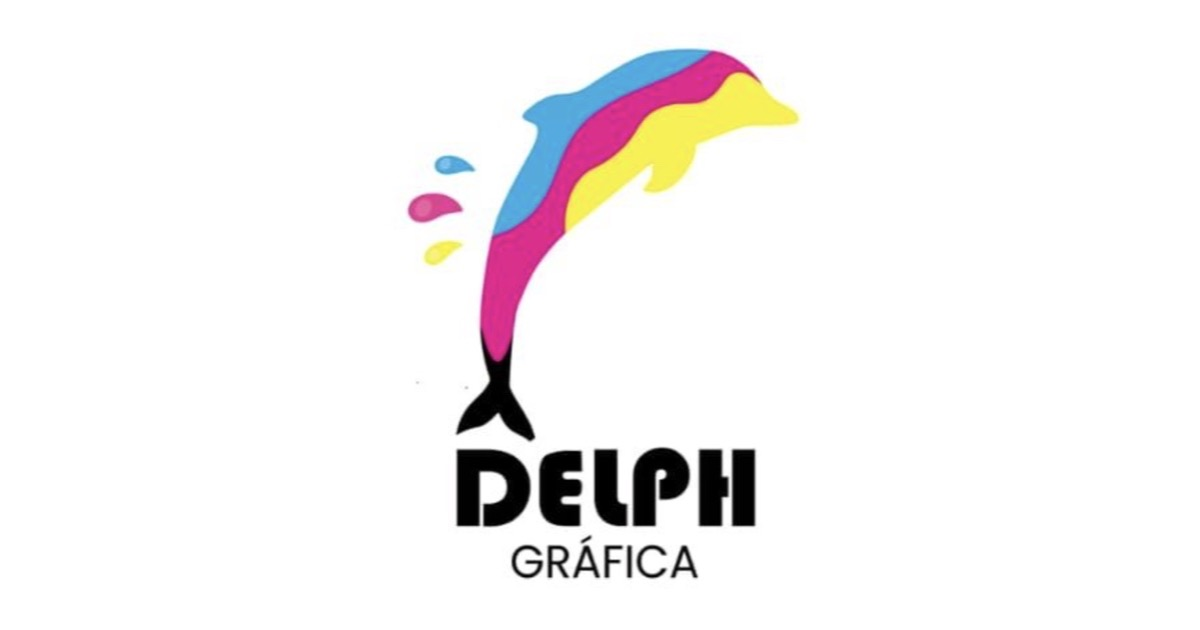
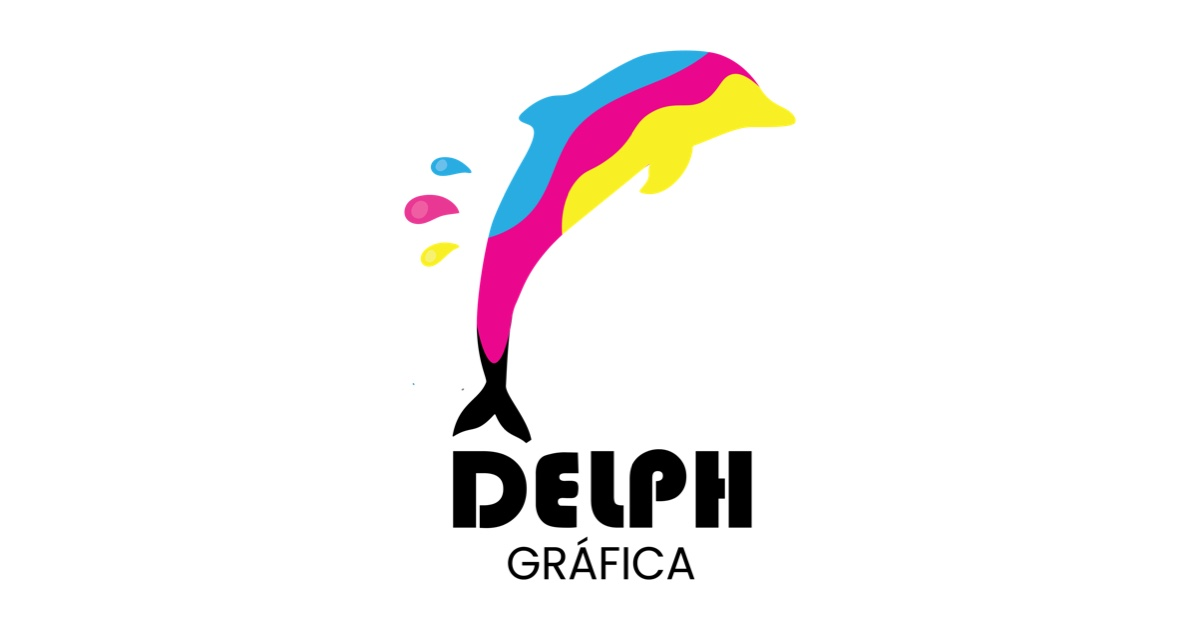
Rediseño v1: hero partido, servicios, portfolio, contacto, footer y modal
Nuevo diseño inspirado en plotterdoc.com: encabezado con navegación, hero
oscuro/claro, cuatro servicios (con "Cotizar esto" que abre WhatsApp con el
servicio), siete bloques de portfolio con banner de Instagram, contacto en
dos columnas, footer y botón flotante de WhatsApp. El modal de "Adjuntar
archivo" usa el <dialog> nativo y devuelve el foco al botón.

Logo nuevo (PNG transparente de 5285x5377): assets regenerados con sips y
paleta con los colores exactos de la marca. El acento se oscurece a #dc078b
y el verde de WhatsApp a #0f7a6d para cumplir AA con texto blanco.

Tailwind ahora solo escanea index.html y js/, así el CSS compilado es
reproducible (antes arrastraba clases viejas de su propio archivo).

Tests: 73 unit/static y 121 E2E en Chromium móvil, Chromium escritorio y
WebKit. Lighthouse móvil: Performance 98, Accesibilidad 98, Buenas prácticas
100, SEO 100.

Changed region(s): [[0.3392, 0.0603, 0.6783, 0.9349]]

diff --git a/assets/styles.css b/assets/styles.css
@@ -1,2 +1,2 @@
 /*! tailwindcss v4.3.3 | MIT License | https://tailwindcss.com */
-@layer properties{@supports (((-webkit-hyphens:none)) and (not (margin-trim:inline))) or ((-moz-orient:inline) and (not (color:rgb(from red r g b)))){*,:before,:after,::backdrop{--tw-space-y-reverse:0;--tw-border-style:solid;--tw-font-weight:initial;--tw-tracking:initial;--tw-blur:initial;--tw-brightness:initial;--tw-contrast:initial;--tw-grayscale:initial;--tw-hue-rotate:initial;--tw-invert:initial;--tw-opacity:initial;--tw-saturate:initial;--tw-sepia:initial;--tw-drop-shadow:initial;--tw-drop-shadow-color:initial;--tw-drop-shadow-alpha:100%;--tw-drop-shadow-size:initial}}}@layer theme{:root,:host{--font-sans:"Inter", ui-sans-serif, system-ui, -apple-system, "Segoe UI", Roboto, sans-serif;--font-mono:ui-monospace, SFMono-Regular, Menlo, Monaco, Consolas, "Liberation Mono", "Courier New", monospace;--color-neutral-500:oklch(55.6% 0 none);--color-neutral-700:oklch(37.1% 0 none);--color-white:#fff;--spacing:.25rem;--container-2xl:42rem;--container-6xl:72rem;--text-sm:.875rem;--text-sm--line-height:calc(1.25 / .875);--text-base:1rem;--text-base--line-height:calc(1.5 / 1);--text-lg:1.125rem;--text-lg--line-height:calc(1.75 / 1.125);--text-3xl:1.875rem;--text-3xl--line-height:calc(2.25 / 1.875);--text-4xl:2.25rem;--text-4xl--line-height:calc(2.5 / 2.25);--font-weight-semibold:600;--font-weight-bold:700;--tracking-tight:-.025em;--radius-lg:.5rem;--default-font-family:var(--font-sans);--default-mono-font-family:var(--font-mono);--color-accent:#c8237b;--color-ink:#111;--color-paper:#fafafa}}@layer base{*,:after,:before,::backdrop{box-sizing:border-box;border:0 solid;margin:0;padding:0}::file-selector-button{box-sizing:border-box;border:0 solid;margin:0;padding:0}html,:host{-webkit-text-size-adjust:100%;tab-size:4;line-height:1.5;font-family:var(--default-font-family,-apple-system, BlinkMacSystemFont, "Segoe UI", Roboto, "Helvetica Neue", "Noto Sans", Arial, sans-serif, "Apple Color Emoji", "Segoe UI Emoji", "Segoe UI Symbol", "Noto Color Emoji");font-feature-settings:var(--default-font-feature-settings,normal);font-variation-settings:var(--default-font-variation-settings,normal);-webkit-tap-highlight-color:transparent}hr{height:0;color:inherit;border-top-width:1px}abbr:where([title]){-webkit-text-decoration:underline dotted;text-decoration:underline dotted}h1,h2,h3,h4,h5,h6{font-size:inherit;font-weight:inherit}a{color:inherit;-webkit-text-decoration:inherit;-webkit-text-decoration:inherit;-webkit-text-decoration:inherit;text-decoration:inherit}b,strong{font-weight:bolder}code,kbd,samp,pre{font-family:var(--default-mono-font-family,ui-monospace, SFMono-Regular, Menlo, Monaco, Consolas, "Liberation Mono", "Courier New", monospace);font-feature-settings:var(--default-mono-font-feature-settings,normal);font-variation-settings:var(--default-mono-font-variation-settings,normal);font-size:1em}small{font-size:80%}sub,sup{vertical-align:baseline;font-size:75%;line-height:0;position:relative}sub{bottom:-.25em}sup{top:-.5em}table{text-indent:0;border-color:inherit;border-collapse:collapse}:-moz-focusring:where(:not(iframe)){outline:auto}progress{vertical-align:baseline}summary{display:list-item}ol,ul,menu{list-style:none}img,svg,video,canvas,audio,iframe,embed,object{vertical-align:middle;display:block}img,video{max-width:100%;height:auto}button,input,select,optgroup,textarea{font:inherit;font-feature-settings:inherit;font-variation-settings:inherit;letter-spacing:inherit;color:inherit;opacity:1;background-color:#0000;border-radius:0}::file-selector-button{font:inherit;font-feature-settings:inherit;font-variation-settings:inherit;letter-spacing:inherit;color:inherit;opacity:1;background-color:#0000;border-radius:0}:where(select:is([multiple],[size])) optgroup{font-weight:bolder}:where(select:is([multiple],[size])) optgroup option{padding-inline-start:20px}::file-selector-button{margin-inline-end:4px}::placeholder{opacity:1}@supports (not ((-webkit-appearance:-apple-pay-button))) or (contain-intrinsic-size:1px){::placeholder{color:currentColor}@supports (color:color-mix(in lab, red, red)){::placeholder{color:color-mix(in oklab, currentcolor 50%, transparent)}}}textarea{resize:vertical}::-webkit-search-decoration{-webkit-appearance:none}::-webkit-date-and-time-value{min-height:1lh;text-align:inherit}::-webkit-datetime-edit{display:inline-flex}::-webkit-datetime-edit-fields-wrapper{padding:0}::-webkit-datetime-edit{padding-block:0}::-webkit-datetime-edit-year-field{padding-block:0}::-webkit-datetime-edit-month-field{padding-block:0}::-webkit-datetime-edit-day-field{padding-block:0}::-webkit-datetime-edit-hour-field{padding-block:0}::-webkit-datetime-edit-minute-field{padding-block:0}::-webkit-datetime-edit-second-field{padding-block:0}::-webkit-datetime-edit-millisecond-field{padding-block:0}::-webkit-datetime-edit-meridiem-field{padding-block:0}::-webkit-calendar-picker-indicator{line-height:1}:-moz-ui-invalid{box-shadow:none}button,input:where([type=button],[type=reset],[type=submit]){appearance:button}::file-selector-button{appearance:button}::-webkit-inner-spin-button{height:auto}::-webkit-outer-spin-button{height:auto}[hidden]:where(:not([hidden=until-found])){display:none!important}html{background-color:var(--color-paper);color:var(--color-ink)}@media (prefers-reduced-motion:no-preference){html{scroll-behavior:smooth}}:focus-visible{outline:3px solid var(--color-accent);outline-offset:3px}}@layer components;@layer utilities{.mx-auto{margin-inline:auto}.mt-1{margin-top:var(--spacing)}.mt-3{margin-top:calc(var(--spacing) * 3)}.mt-8{margin-top:calc(var(--spacing) * 8)}.block{display:block}.flex{display:flex}.inline-flex{display:inline-flex}.h-16{height:calc(var(--spacing) * 16)}.min-h-11{min-height:calc(var(--spacing) * 11)}.w-auto{width:auto}.w-full{width:100%}.max-w-2xl{max-width:var(--container-2xl)}.max-w-6xl{max-width:var(--container-6xl)}.items-center{align-items:center}.justify-center{justify-content:center}:where(.space-y-5>:not(:last-child)){--tw-space-y-reverse:0;margin-block-start:calc(calc(var(--spacing) * 5) * var(--tw-space-y-reverse));margin-block-end:calc(calc(var(--spacing) * 5) * calc(1 - var(--tw-space-y-reverse)))}.rounded-full{border-radius:3.40282e38px}.rounded-lg{border-radius:var(--radius-lg)}.border{border-style:var(--tw-border-style);border-width:1px}.border-2{border-style:var(--tw-border-style);border-width:2px}.border-l-4{border-left-style:var(--tw-border-style);border-left-width:4px}.border-ink{border-color:var(--color-ink)}.border-neutral-500{border-color:var(--color-neutral-500)}.bg-accent{background-color:var(--color-accent)}.bg-paper{background-color:var(--color-paper)}.bg-white{background-color:var(--color-white)}.p-4{padding:calc(var(--spacing) * 4)}.px-4{padding-inline:calc(var(--spacing) * 4)}.px-8{padding-inline:calc(var(--spacing) * 8)}.py-2{padding-block:calc(var(--spacing) * 2)}.py-3{padding-block:calc(var(--spacing) * 3)}.py-4{padding-block:calc(var(--spacing) * 4)}.py-16{padding-block:calc(var(--spacing) * 16)}.pl-3{padding-left:calc(var(--spacing) * 3)}.text-right{text-align:right}.font-sans{font-family:var(--font-sans)}.text-3xl{font-size:var(--text-3xl);line-height:var(--tw-leading,var(--text-3xl--line-height))}.text-base{font-size:var(--text-base);line-height:var(--tw-leading,var(--text-base--line-height))}.text-lg{font-size:var(--text-lg);line-height:var(--tw-leading,var(--text-lg--line-height))}.text-sm{font-size:var(--text-sm);line-height:var(--tw-leading,var(--text-sm--line-height))}.font-bold{--tw-font-weight:var(--font-weight-bold);font-weight:var(--font-weight-bold)}.font-semibold{--tw-font-weight:var(--font-weight-semibold);font-weight:var(--font-weight-semibold)}.tracking-tight{--tw-tracking:var(--tracking-tight);letter-spacing:var(--tracking-tight)}.text-ink{color:var(--color-ink)}.text-neutral-700{color:var(--color-neutral-700)}.text-white{color:var(--color-white)}.underline{text-decoration-line:underline}.antialiased{-webkit-font-smoothing:antialiased;-moz-osx-font-smoothing:grayscale}.mix-blend-multiply{mix-blend-mode:multiply}.empty\:hidden:empty{display:none}@media (hover:hover){.hover\:bg-accent:hover{background-color:var(--color-accent)}.hover\:brightness-90:hover{--tw-brightness:brightness(90%);filter:var(--tw-blur,) var(--tw-brightness,) var(--tw-contrast,) var(--tw-grayscale,) var(--tw-hue-rotate,) var(--tw-invert,) var(--tw-saturate,) var(--tw-sepia,) var(--tw-drop-shadow,)}}.focus\:outline-none:focus{--tw-outline-style:none;outline-style:none}.focus-visible\:ring-accent:focus-visible{--tw-ring-color:var(--color-accent)}.aria-invalid\:border-2[aria-invalid=true]{border-style:var(--tw-border-style);border-width:2px}.aria-invalid\:border-ink[aria-invalid=true]{border-color:var(--color-ink)}@media (min-width:40rem){.sm\:px-6{padding-inline:calc(var(--spacing) * 6)}.sm\:py-24{padding-block:calc(var(--spacing) * 24)}.sm\:text-4xl{font-size:var(--text-4xl);line-height:var(--tw-leading,var(--text-4xl--line-height))}}}@font-face{font-family:Inter;src:url(fonts/inter-latin-var.woff2)format("woff2");font-weight:100 900;font-style:normal;font-display:swap}@property --tw-space-y-reverse{syntax:"*";inherits:false;initial-value:0}@property --tw-border-style{syntax:"*";inherits:false;initial-value:solid}@property --tw-font-weight{syntax:"*";inherits:false}@property --tw-tracking{syntax:"*";inherits:false}@property --tw-blur{syntax:"*";inherits:false}@property --tw-brightness{syntax:"*";inherits:false}@property --tw-contrast{syntax:"*";inherits:false}@property --tw-grayscale{syntax:"*";inherits:false}@property --tw-hue-rotate{syntax:"*";inherits:false}@property --tw-invert{syntax:"*";inherits:false}@property --tw-opacity{syntax:"*";inherits:false}@property --tw-saturate{syntax:"*";inherits:false}@property --tw-sepia{syntax:"*";inherits:false}@property --tw-drop-shadow{syntax:"*";inherits:false}@property --tw-drop-shadow-color{syntax:"*";inherits:false}@property --tw-drop-shadow-alpha{syntax:"<percentage>";inherits:false;initial-value:100%}@property --tw-drop-shadow-size{syntax:"*";inherits:false}
+@layer properties{@supports (((-webkit-hyphens:none)) and (not (margin-trim:inline))) or ((-moz-orient:inline) and (not (color:rgb(from red r g b)))){*,:before,:after,::backdrop{--tw-font-weight:initial}}}@layer theme{:root,:host{--font-sans:"Inter", ui-sans-serif, system-ui, -apple-system, "Segoe UI", Roboto, sans-serif;--font-mono:ui-monospace, SFMono-Regular, Menlo, Monaco, Consolas, "Liberation Mono", "Courier New", monospace;--color-yellow-100:#fdfbc9;--color-cyan-100:#d3eefa;--font-weight-semibold:600;--default-font-family:var(--font-sans);--default-mono-font-family:var(--font-mono);--color-accent:#dc078b;--color-brand-cyan:#28ace2;--color-brand-yellow:#f8ef24;--color-ink:#111;--color-paper:#fafafa;--color-mist:#f1f1f1;--color-mist-2:#e6e6e6;--color-mist-3:#dcdcdc;--color-muted:#555;--color-wa:#0f7a6d}}@layer base{*,:after,:before,::backdrop{box-sizing:border-box;border:0 solid;margin:0;padding:0}::file-selector-button{box-sizing:border-box;border:0 solid;margin:0;padding:0}html,:host{-webkit-text-size-adjust:100%;tab-size:4;line-height:1.5;font-family:var(--default-font-family,-apple-system, BlinkMacSystemFont, "Segoe UI", Roboto, "Helvetica Neue", "Noto Sans", Arial, sans-serif, "Apple Color Emoji", "Segoe UI Emoji", "Segoe UI Symbol", "Noto Color Emoji");font-feature-settings:var(--default-font-feature-settings,normal);font-variation-settings:var(--default-font-variation-settings,normal);-webkit-tap-highlight-color:transparent}hr{height:0;color:inherit;border-top-width:1px}abbr:where([title]){-webkit-text-decoration:underline dotted;text-decoration:underline dotted}h1,h2,h3,h4,h5,h6{font-size:inherit;font-weight:inherit}a{color:inherit;-webkit-text-decoration:inherit;-webkit-text-decoration:inherit;-webkit-text-decoration:inherit;text-decoration:inherit}b,strong{font-weight:bolder}code,kbd,samp,pre{font-family:var(--default-mono-font-family,ui-monospace, SFMono-Regular, Menlo, Monaco, Consolas, "Liberation Mono", "Courier New", monospace);font-feature-settings:var(--default-mono-font-feature-settings,normal);font-variation-settings:var(--default-mono-font-variation-settings,normal);font-size:1em}small{font-size:80%}sub,sup{vertical-align:baseline;font-size:75%;line-height:0;position:relative}sub{bottom:-.25em}sup{top:-.5em}table{text-indent:0;border-color:inherit;border-collapse:collapse}:-moz-focusring:where(:not(iframe)){outline:auto}progress{vertical-align:baseline}summary{display:list-item}ol,ul,menu{list-style:none}img,svg,video,canvas,audio,iframe,embed,object{vertical-align:middle;display:block}img,video{max-width:100%;height:auto}button,input,select,optgroup,textarea{font:inherit;font-feature-settings:inherit;font-variation-settings:inherit;letter-spacing:inherit;color:inherit;opacity:1;background-color:#0000;border-radius:0}::file-selector-button{font:inherit;font-feature-settings:inherit;font-variation-settings:inherit;letter-spacing:inherit;color:inherit;opacity:1;background-color:#0000;border-radius:0}:where(select:is([multiple],[size])) optgroup{font-weight:bolder}:where(select:is([multiple],[size])) optgroup option{padding-inline-start:20px}::file-selector-button{margin-inline-end:4px}::placeholder{opacity:1}@supports (not ((-webkit-appearance:-apple-pay-button))) or (contain-intrinsic-size:1px){::placeholder{color:currentColor}@supports (color:color-mix(in lab, red, red)){::placeholder{color:color-mix(in oklab, currentcolor 50%, transparent)}}}textarea{resize:vertical}::-webkit-search-decoration{-webkit-appearance:none}::-webkit-date-and-time-value{min-height:1lh;text-align:inherit}::-webkit-datetime-edit{display:inline-flex}::-webkit-datetime-edit-fields-wrapper{padding:0}::-webkit-datetime-edit{padding-block:0}::-webkit-datetime-edit-year-field{padding-block:0}::-webkit-datetime-edit-month-field{padding-block:0}::-webkit-datetime-edit-day-field{padding-block:0}::-webkit-datetime-edit-hour-field{padding-block:0}::-webkit-datetime-edit-minute-field{padding-block:0}::-webkit-datetime-edit-second-field{padding-block:0}::-webkit-datetime-edit-millisecond-field{padding-block:0}::-webkit-datetime-edit-meridiem-field{padding-block:0}::-webkit-calendar-picker-indicator{line-height:1}:-moz-ui-invalid{box-shadow:none}button,input:where([type=button],[type=reset],[type=submit]){appearance:button}::file-selector-button{appearance:button}::-webkit-inner-spin-button{height:auto}::-webkit-outer-spin-button{height:auto}[hidden]:where(:not([hidden=until-found])){display:none!important}html{background-color:var(--color-paper);color:var(--color-ink)}body{-webkit-font-smoothing:antialiased;line-height:1.5}@media (prefers-reduced-motion:no-preference){html{scroll-behavior:smooth}}:focus-visible{outline:3px solid var(--color-accent);outline-offset:3px}}@layer components{.wrap{max-width:1200px;margin:0 auto;padding:0 24px}.btn{cursor:pointer;border:2px solid #0000;border-radius:2px;justify-content:center;align-items:center;gap:.6rem;min-height:52px;padding:0 1.5rem;font-size:1rem;font-weight:700;text-decoration:none;display:inline-flex}.btn-cta{background:var(--color-accent);color:#fff}.btn-cta:hover{filter:brightness(.92)}.btn-wa{background:var(--color-wa);color:#fff}.btn-wa:hover{filter:brightness(1.12)}.btn-ghost{color:#fff;border-color:#ffffff8c}.btn-ghost:hover{background:#ffffff1a}.btn-line{border-color:var(--color-ink);color:var(--color-ink);background:0 0}.btn-line:hover{background:var(--color-ink);color:#fff}.icon-btn{border:2px solid var(--color-ink);border-radius:50%;place-items:center;width:48px;height:48px;text-decoration:none;display:inline-grid}.icon-btn:hover{background:var(--color-ink);color:#fff}.i{fill:none;stroke:currentColor;stroke-width:2px;stroke-linecap:round;stroke-linejoin:round;flex:none;width:1.25em;height:1.25em}.top{background:#fff;border-bottom:1px solid #e3e3e3}.top .wrap{justify-content:space-between;align-items:center;gap:16px;min-height:104px;display:flex}.logo{display:block}.logo img{width:auto;height:80px;display:block}.menu{gap:12px;font-weight:600;display:flex}.menu a{align-items:center;min-height:44px;padding:0 12px;text-decoration:none;display:inline-flex}.menu a:hover{text-underline-offset:6px;text-decoration:underline}.top-actions{align-items:center;gap:10px;display:flex}.top .btn-wa{min-height:48px;padding:0 1.1rem}.hero{grid-template-columns:1fr 1fr;min-height:min(720px,86vh);display:grid}.hero-text{background:var(--color-ink);color:#fff;flex-direction:column;justify-content:center;align-items:flex-start;gap:24px;padding:clamp(32px,6vw,96px);display:flex}.badge{letter-spacing:.02em;border:1px solid #fff6;border-radius:999px;align-items:center;gap:10px;padding:6px 14px;font-size:.875rem;font-weight:600;display:inline-flex}.badge:before{content:"";background:var(--color-brand-yellow);border-radius:50%;width:8px;height:8px}.hero h1{letter-spacing:-.025em;font-size:clamp(2.25rem,4.3vw,4rem);font-weight:800;line-height:1.02}.hero h1 em{color:var(--color-brand-yellow);font-style:normal;display:block}.lead{color:var(--color-mist-2);max-width:34ch;font-size:1.15rem}.hero-actions{flex-wrap:wrap;gap:12px;display:flex}.hero-ig{min-height:44px;color:var(--color-mist-2);align-items:center;gap:8px;font-weight:600;text-decoration:none;display:inline-flex}.hero-ig:hover{color:#fff;text-underline-offset:5px;text-decoration:underline}.hero-art{background:var(--color-mist);place-items:center;padding:32px;display:grid}.hero-art img{width:min(100%,440px);height:auto}.block{padding:clamp(56px,8vw,112px) 0}.eyebrow{letter-spacing:.14em;text-transform:uppercase;color:var(--color-muted);font-size:.8rem;font-weight:700}.title{letter-spacing:-.02em;text-transform:uppercase;margin-top:8px;font-size:clamp(1.75rem,3.6vw,3rem);font-weight:800;line-height:1.05}.services{grid-template-columns:repeat(4,1fr);gap:40px;margin-top:48px;display:grid}.service{flex-direction:column;align-items:flex-start;display:flex}.service-icon{background:var(--color-cyan-100);border-radius:50%;place-items:center;width:64px;height:64px;font-size:1.6rem;display:inline-grid}.service:nth-child(2) .service-icon{background:var(--color-yellow-100)}.service:nth-child(3) .service-icon{background:var(--color-mist)}.service h3{margin:20px 0 8px;font-size:1.35rem;font-weight:800;line-height:1.2}.service p{color:var(--color-muted);flex:1;max-width:32ch}.link{border-bottom:2px solid var(--color-ink);align-items:center;gap:8px;min-height:44px;margin-top:8px;font-weight:700;text-decoration:none;display:inline-flex}.link:hover{gap:12px}.works{background:#fff;padding-bottom:0}.works-grid{grid-template-columns:minmax(0,5fr) minmax(0,7fr);align-items:center;gap:56px;padding-bottom:clamp(56px,8vw,112px);display:grid}.works-copy p:not(.eyebrow){color:var(--color-muted);max-width:36ch;margin:16px 0 24px}.mosaic{grid-template-rows:repeat(3,150px);grid-template-columns:repeat(6,1fr);display:grid}.tile{padding:18px;transition:transform .25s;position:relative;overflow:hidden}.tile:hover{z-index:2;transform:scale(1.03)}.tile-label{z-index:1;font-size:1.05rem;font-weight:800;line-height:1.15;position:relative}.tile-icon{opacity:.28;stroke-width:1.5px;width:64px;height:64px;position:absolute;bottom:14px;right:14px}.tile-a{background:var(--color-brand-cyan);grid-area:1/1/3/3}.tile-b{background:var(--color-brand-yellow);grid-area:1/3/2/5}.tile-c{background:var(--color-ink);color:#fff;grid-area:1/5/3/7}.tile-d{background:var(--color-mist-2);grid-area:2/3/3/5}.tile-e{background:var(--color-yellow-100);grid-area:3/1/4/3}.tile-f{background:var(--color-cyan-100);grid-area:3/3/4/5}.tile-g{background:var(--color-mist-3);grid-area:3/5/4/7}.ig-banner{background:var(--color-ink);color:#fff}.ig-banner .wrap{flex-wrap:wrap;justify-content:space-between;align-items:center;gap:24px;padding-top:32px;padding-bottom:32px;display:flex}.ig-banner strong{font-size:1.25rem}.ig-banner span{color:#cfcfcf;display:block}.contact-grid{grid-template-columns:5fr 6fr;align-items:start;gap:64px;display:grid}.direct{flex-direction:column;align-items:flex-start;gap:12px;margin-top:28px;display:flex}.facts{color:var(--color-muted);gap:10px;margin-top:28px;font-size:.95rem;display:grid}.facts div{align-items:center;gap:10px;display:flex}.notice{border:2px solid var(--color-ink);border-radius:2px;margin-top:24px;padding:16px}.card{background:#fff;gap:18px;padding:clamp(20px,3vw,40px);display:grid;box-shadow:0 1px #e3e3e3,0 24px 48px -32px #00000040}.card label{margin-bottom:4px;font-size:.9rem;font-weight:600;display:block}.card input,.card textarea{width:100%;min-height:48px;font:inherit;background:#fff;border:1px solid #767676;border-radius:2px;padding:10px 14px;display:block}.card textarea{resize:vertical;min-height:132px}.card [aria-invalid=true]{border:2px solid var(--color-ink)}.hint,.counter,.privacy{color:var(--color-muted);font-size:.875rem}.counter{text-align:right;margin-top:4px}.privacy{font-size:.8rem}.field-error{border-left:4px solid var(--color-ink);margin-top:4px;padding-left:12px;font-size:.875rem;font-weight:600}.field-error:empty{display:none}.form-actions{flex-wrap:wrap;gap:12px;display:flex}.foot{background:var(--color-ink);color:var(--color-mist-2);padding:56px 0 32px}.foot-grid{grid-template-columns:1.2fr 1fr 1fr 1fr;gap:32px;display:grid}.foot h2{color:#fff;letter-spacing:.14em;text-transform:uppercase;margin-bottom:12px;font-size:.8rem}.foot a{text-decoration:none}.foot a:hover{text-decoration:underline}.foot .logo img{background:#fff;border-radius:2px;height:88px;padding:8px}.foot .mail{align-items:center;min-height:44px;display:inline-flex}.social{gap:10px;display:flex}.social .icon-btn{color:#fff;border-color:#777}.social .icon-btn:hover{color:var(--color-ink);background:#fff}.copy{color:#a8a8a8;border-top:1px solid #333;margin-top:40px;padding-top:20px;font-size:.85rem}.fab{z-index:20;background:var(--color-wa);color:#fff;border-radius:50%;place-items:center;width:62px;height:62px;text-decoration:none;display:grid;position:fixed;bottom:20px;right:20px;box-shadow:0 8px 24px #0000004d}.fab .i{width:32px;height:32px}.fab:hover{filter:brightness(1.12)}dialog#modal-arte{max-width:min(92vw,520px);color:var(--color-ink);background:#fff;border:0;border-radius:2px;margin:auto;padding:0}dialog#modal-arte::backdrop{background:#0009}.modal-box{gap:16px;padding:clamp(20px,4vw,36px);display:grid}.modal-box h2{font-size:1.5rem;font-weight:800}@media (prefers-reduced-motion:reduce){.tile{transition:none}.tile:hover{transform:none}}@media (max-width:1100px){.services{grid-template-columns:repeat(2,1fr)}}@media (max-width:900px){.menu{display:none}.top .wrap{min-height:84px}.logo img{height:64px}.hero{grid-template-columns:1fr;min-height:0}.hero-art{padding:24px}.hero-art img{width:min(60%,240px)}.works-grid,.contact-grid{grid-template-columns:1fr;gap:32px}.mosaic{grid-template-rows:none;grid-template-columns:repeat(2,1fr);grid-auto-rows:130px}.tile-a,.tile-b,.tile-c,.tile-d,.tile-e,.tile-f,.tile-g{grid-area:auto}.tile-a,.tile-d,.tile-g{grid-column:1/3}.foot-grid{grid-template-columns:1fr 1fr}.btn-wa .long{display:none}}@media (max-width:640px){.services{grid-template-columns:1fr;gap:36px}}@media (max-width:520px){.foot-grid{grid-template-columns:1fr}.hero-actions .btn{width:100%}}}@layer utilities{.block{display:block}.font-semibold{--tw-font-weight:var(--font-weight-semibold);font-weight:var(--font-weight-semibold)}.underline{text-decoration-line:underline}}@font-face{font-family:Inter;src:url(fonts/inter-latin-var.woff2)format("woff2");font-weight:100 900;font-style:normal;font-display:swap}@property --tw-font-weight{syntax:"*";inherits:false}

diff --git a/index.html b/index.html
@@ -4,12 +4,12 @@
   <meta charset="utf-8">
   <meta name="viewport" content="width=device-width, initial-scale=1">
   <title>Gráfica Delph — Sitio en construcción</title>
-  <meta name="description" content="Gráfica Delph: impresión en gran formato, impresión digital y offset, merchandising y packaging corporativo en Paso del Rey, Moreno. Cotizá tu proyecto por WhatsApp.">
+  <meta name="description" content="Gráfica Delph: cartelería, lonas, vinilos, impresión digital, laminados, merchandising y packaging corporativo en Paso del Rey, Moreno. Cotizá tu proyecto por WhatsApp.">
 
   <meta property="og:type" content="website">
   <meta property="og:locale" content="es_AR">
   <meta property="og:title" content="Gráfica Delph — Sitio en construcción">
-  <meta property="og:description" content="Impresión en gran formato, digital y offset, merchandising y packaging corporativo. Cotizá tu proyecto por WhatsApp.">
+  <meta property="og:description" content="Cartelería, lonas, vinilos, impresión digital, laminados, merchandising y packaging. Cotizá tu proyecto por WhatsApp.">
   <meta property="og:url" content="https://delphgrafica.com.ar/">
   <meta property="og:image" content="https://delphgrafica.com.ar/assets/og.jpg">
 
@@ -19,63 +19,185 @@
   <noscript><style>.js-only{display:none}</style></noscript>
   <script type="module" src="js/main.js"></script>
 </head>
-<body class="bg-paper font-sans text-ink antialiased">
-  <header class="mx-auto flex max-w-6xl items-center px-4 py-4 sm:px-6">
-    <a href="#inicio" aria-label="Gráfica Delph, ir al inicio">
-      <img src="assets/logo.jpg" alt="Gráfica Delph" width="480" height="513" class="h-16 w-auto mix-blend-multiply">
-    </a>
+<body>
+<svg width="0" height="0" style="position:absolute" aria-hidden="true"><symbol id="i-brand-whatsapp" viewBox="0 0 24 24"><path d="M3 21l1.65 -3.8a9 9 0 1 1 3.4 2.9l-5.05 .9" /><path d="M9 10a.5 .5 0 0 0 1 0v-1a.5 .5 0 0 0 -1 0v1a5 5 0 0 0 5 5h1a.5 .5 0 0 0 0 -1h-1a.5 .5 0 0 0 0 1" /></symbol><symbol id="i-brand-instagram" viewBox="0 0 24 24"><path d="M4 8a4 4 0 0 1 4 -4h8a4 4 0 0 1 4 4v8a4 4 0 0 1 -4 4h-8a4 4 0 0 1 -4 -4l0 -8" /><path d="M9 12a3 3 0 1 0 6 0a3 3 0 0 0 -6 0" /><path d="M16.5 7.5v.01" /></symbol><symbol id="i-arrow-right" viewBox="0 0 24 24"><path d="M5 12l14 0" /><path d="M13 18l6 -6" /><path d="M13 6l6 6" /></symbol><symbol id="i-mail" viewBox="0 0 24 24"><path d="M3 7a2 2 0 0 1 2 -2h14a2 2 0 0 1 2 2v10a2 2 0 0 1 -2 2h-14a2 2 0 0 1 -2 -2v-10" /><path d="M3 7l9 6l9 -6" /></symbol><symbol id="i-map-pin" viewBox="0 0 24 24"><path d="M9 11a3 3 0 1 0 6 0a3 3 0 0 0 -6 0" /><path d="M17.657 16.657l-4.243 4.243a2 2 0 0 1 -2.827 0l-4.244 -4.243a8 8 0 1 1 11.314 0" /></symbol><symbol id="i-clock" viewBox="0 0 24 24"><path d="M3 12a9 9 0 1 0 18 0a9 9 0 0 0 -18 0" /><path d="M12 7v5l3 3" /></symbol><symbol id="i-printer" viewBox="0 0 24 24"><path d="M17 17h2a2 2 0 0 0 2 -2v-4a2 2 0 0 0 -2 -2h-14a2 2 0 0 0 -2 2v4a2 2 0 0 0 2 2h2" /><path d="M17 9v-4a2 2 0 0 0 -2 -2h-6a2 2 0 0 0 -2 2v4" /><path d="M7 15a2 2 0 0 1 2 -2h6a2 2 0 0 1 2 2v4a2 2 0 0 1 -2 2h-6a2 2 0 0 1 -2 -2l0 -4" /></symbol><symbol id="i-ruler-measure" viewBox="0 0 24 24"><path d="M19.875 12c.621 0 1.125 .512 1.125 1.143v5.714c0 .631 -.504 1.143 -1.125 1.143h-15.875a1 1 0 0 1 -1 -1v-5.857c0 -.631 .504 -1.143 1.125 -1.143h15.75" /><path d="M9 12v2" /><path d="M6 12v3" /><path d="M12 12v3" /><path d="M18 12v3" /><path d="M15 12v2" /><path d="M3 3v4" /><path d="M3 5h18" /><path d="M21 3v4" /></symbol><symbol id="i-package" viewBox="0 0 24 24"><path d="M12 3l8 4.5l0 9l-8 4.5l-8 -4.5l0 -9l8 -4.5" /><path d="M12 12l8 -4.5" /><path d="M12 12l0 9" /><path d="M12 12l-8 -4.5" /><path d="M16 5.25l-8 4.5" /></symbol><symbol id="i-shirt" viewBox="0 0 24 24"><path d="M15 4l6 2v5h-3v8a1 1 0 0 1 -1 1h-10a1 1 0 0 1 -1 -1v-8h-3v-5l6 -2a3 3 0 0 0 6 0" /></symbol><symbol id="i-layout-board" viewBox="0 0 24 24"><path d="M4 6a2 2 0 0 1 2 -2h12a2 2 0 0 1 2 2v12a2 2 0 0 1 -2 2h-12a2 2 0 0 1 -2 -2l0 -12" /><path d="M4 9h8" /><path d="M12 15h8" /><path d="M12 4v16" /></symbol><symbol id="i-stack-2" viewBox="0 0 24 24"><path d="M12 4l-8 4l8 4l8 -4l-8 -4" /><path d="M4 12l8 4l8 -4" /><path d="M4 16l8 4l8 -4" /></symbol><symbol id="i-building-bridge" viewBox="0 0 24 24"><path d="M6 5l0 14" /><path d="M18 5l0 14" /><path d="M2 15l20 0" /><path d="M3 8a7.5 7.5 0 0 0 3 -2a6.5 6.5 0 0 0 12 0a7.5 7.5 0 0 0 3 2" /><path d="M12 10l0 5" /></symbol></svg>
+
+  <header class="top">
+    <div class="wrap">
+      <a class="logo" href="#inicio" aria-label="Gráfica Delph, ir al inicio"><img src="assets/logo-sm.png" alt="Gráfica Delph" width="160" height="215"></a>
+      <nav class="menu" aria-label="Principal"><a href="#servicios">Servicios</a><a href="#trabajos">Trabajos</a><a href="#cotizar">Cotizar</a></nav>
+      <div class="top-actions">
+        <a class="icon-btn" href="https://www.instagram.com/graficadelph/" target="_blank" rel="noopener" aria-label="Instagram"><svg class="i" aria-hidden="true"><use href="#i-brand-instagram"/></svg></a>
+        <a class="btn btn-wa" href="https://wa.me/5491172394787?text=Hola!%20Quiero%20hacer%20una%20consulta." target="_blank" rel="noopener"><svg class="i" aria-hidden="true"><use href="#i-brand-whatsapp"/></svg><span><span class="long">Escribinos por </span>WhatsApp</span></a>
+      </div>
+    </div>
   </header>
 
-  <main>
-    <section id="inicio"></section>
-    <section id="trabajos"></section>
-    <section id="servicios"></section>
-    <section id="cotizar" tabindex="-1" aria-labelledby="cotizar-titulo" class="focus:outline-none">
-      <div class="mx-auto max-w-2xl px-4 py-16 sm:px-6 sm:py-24">
-        <h2 id="cotizar-titulo" class="text-3xl font-bold tracking-tight sm:text-4xl">Contanos qué necesitás</h2>
-        <p class="mt-3 text-lg text-neutral-700">Completá el formulario y seguimos la charla por WhatsApp.</p>
+  <main id="inicio">
+    <section class="hero" aria-label="Presentación">
+      <div class="hero-text">
+        <span id="badge-construccion" class="badge">Sitio en construcción</span>
+        <h1>Impresión rápida y precisa.<em>Calidad que se nota.</em></h1>
+        <p class="lead">Cartelería, lonas, impresión digital, laminados, estructuras, merchandising y packaging. Contanos qué necesitás y lo cotizamos por WhatsApp.</p>
+        <div class="hero-actions">
+          <a id="cta-hero" class="btn btn-cta" href="#cotizar">Cotizá tu proyecto</a>
+          <a id="wa-hero" class="btn btn-ghost" href="https://wa.me/5491172394787?text=Hola!%20Quiero%20hacer%20una%20consulta." target="_blank" rel="noopener"><svg class="i" aria-hidden="true"><use href="#i-brand-whatsapp"/></svg> WhatsApp directo</a>
+        </div>
+        <a class="hero-ig" href="https://www.instagram.com/graficadelph/" target="_blank" rel="noopener"><svg class="i" aria-hidden="true"><use href="#i-brand-instagram"/></svg> @graficadelph</a>
+      </div>
+      <div class="hero-art"><img src="assets/logo.png" alt="" width="720" height="967" fetchpriority="high"></div>
+    </section>
 
-        <noscript>
-          <p class="mt-8 rounded-lg border-2 border-ink p-4">Activá JavaScript o escribinos directo por <a class="font-semibold underline" href="https://wa.me/5491172394787">WhatsApp</a>.</p>
-        </noscript>
+    <section class="block" id="servicios" aria-labelledby="servicios-titulo">
+      <div class="wrap">
+        <p class="eyebrow">Qué hacemos</p>
+        <h2 id="servicios-titulo" class="title">Servicios</h2>
+        <div class="services">
+        <article class="service">
+          <span class="service-icon"><svg class="i" aria-hidden="true"><use href="#i-layout-board"/></svg></span>
+          <h3>Impresión en gran formato</h3>
+          <p>Lonas, vinilos, cartelería y materiales especiales para tu local, tu evento o tu campaña.</p>
+          <a class="link" href="https://wa.me/5491172394787?text=Hola!%20Quiero%20cotizar%3A%20Impresi%C3%B3n%20en%20gran%20formato" target="_blank" rel="noopener">Cotizar esto <svg class="i" aria-hidden="true"><use href="#i-arrow-right"/></svg></a>
+        </article>
+        <article class="service">
+          <span class="service-icon"><svg class="i" aria-hidden="true"><use href="#i-printer"/></svg></span>
+          <h3>Impresión digital</h3>
+          <p>Folletería y tarjetas de presentación con tu marca.</p>
+          <a class="link" href="https://wa.me/5491172394787?text=Hola!%20Quiero%20cotizar%3A%20Impresi%C3%B3n%20digital" target="_blank" rel="noopener">Cotizar esto <svg class="i" aria-hidden="true"><use href="#i-arrow-right"/></svg></a>
+        </article>
+        <article class="service">
+          <span class="service-icon"><svg class="i" aria-hidden="true"><use href="#i-stack-2"/></svg></span>
+          <h3>Laminados</h3>
+          <p>Placas rígidas en PVC, PAI, alto impacto, espumado y corrugado.</p>
+          <a class="link" href="https://wa.me/5491172394787?text=Hola!%20Quiero%20cotizar%3A%20Laminados" target="_blank" rel="noopener">Cotizar esto <svg class="i" aria-hidden="true"><use href="#i-arrow-right"/></svg></a>
+        </article>
+        <article class="service">
+          <span class="service-icon"><svg class="i" aria-hidden="true"><use href="#i-package"/></svg></span>
+          <h3>Merchandising y packaging corporativo</h3>
+          <p>Productos y envases con la identidad de tu empresa.</p>
+          <a class="link" href="https://wa.me/5491172394787?text=Hola!%20Quiero%20cotizar%3A%20Merchandising%20y%20packaging%20corporativo" target="_blank" rel="noopener">Cotizar esto <svg class="i" aria-hidden="true"><use href="#i-arrow-right"/></svg></a>
+        </article>
+        </div>
+      </div>
+    </section>
 
-        <form id="form-cotizar" class="js-only mt-8 space-y-5" novalidate>
+    <section class="block works" id="trabajos" aria-labelledby="trabajos-titulo">
+      <div class="wrap works-grid">
+        <div class="works-copy">
+          <p class="eyebrow">Portfolio</p>
+          <h2 id="trabajos-titulo" class="title">Trabajos</h2>
+          <p>Una muestra de lo que hacemos. Los trabajos reales más recientes están en Instagram.</p>
+          <a class="btn btn-line" href="https://www.instagram.com/graficadelph/" target="_blank" rel="noopener"><svg class="i" aria-hidden="true"><use href="#i-brand-instagram"/></svg> Ver el Instagram</a>
+        </div>
+        <div class="mosaic">
+          <div class="tile tile-a"><span class="tile-label">Cartelería</span><svg data-block-visual class="i tile-icon" aria-hidden="true"><use href="#i-layout-board"/></svg></div>
+          <div class="tile tile-b"><span class="tile-label">Lonas</span><svg data-block-visual class="i tile-icon" aria-hidden="true"><use href="#i-ruler-measure"/></svg></div>
+          <div class="tile tile-c"><span class="tile-label">Impresión digital</span><svg data-block-visual class="i tile-icon" aria-hidden="true"><use href="#i-printer"/></svg></div>
+          <div class="tile tile-d"><span class="tile-label">Laminados</span><svg data-block-visual class="i tile-icon" aria-hidden="true"><use href="#i-stack-2"/></svg></div>
+          <div class="tile tile-e"><span class="tile-label">Merchandising</span><svg data-block-visual class="i tile-icon" aria-hidden="true"><use href="#i-shirt"/></svg></div>
+          <div class="tile tile-f"><span class="tile-label">Packaging</span><svg data-block-visual class="i tile-icon" aria-hidden="true"><use href="#i-package"/></svg></div>
+          <div class="tile tile-g"><span class="tile-label">Estructuras</span><svg data-block-visual class="i tile-icon" aria-hidden="true"><use href="#i-building-bridge"/></svg></div>
+        </div>
+      </div>
+      <div class="ig-banner">
+        <div class="wrap">
+          <div><strong>Mirá nuestros trabajos más recientes en Instagram</strong><span>@graficadelph</span></div>
+          <a id="btn-ig-banner" class="btn btn-cta" href="https://www.instagram.com/graficadelph/" target="_blank" rel="noopener"><svg class="i" aria-hidden="true"><use href="#i-brand-instagram"/></svg> Ir a Instagram</a>
+        </div>
+      </div>
+    </section>
+
+    <section class="block" id="cotizar" tabindex="-1" aria-labelledby="cotizar-titulo" style="outline:none">
+      <div class="wrap contact-grid">
+        <div>
+          <p class="eyebrow">Contacto</p>
+          <h2 id="cotizar-titulo" class="title">Contanos qué necesitás</h2>
+          <p class="lead" style="color:var(--color-muted);margin-top:16px">Completá el formulario y seguimos la charla por WhatsApp. O escribinos directo, como te quede más cómodo.</p>
+          <noscript>
+            <p class="notice">Activá JavaScript o escribinos directo por <a class="link" href="https://wa.me/5491172394787">WhatsApp</a>.</p>
+          </noscript>
+          <div class="direct">
+            <a class="btn btn-wa" href="https://wa.me/5491172394787?text=Hola!%20Quiero%20hacer%20una%20consulta." target="_blank" rel="noopener"><svg class="i" aria-hidden="true"><use href="#i-brand-whatsapp"/></svg> WhatsApp directo</a>
+            <a class="btn btn-line" href="https://www.instagram.com/graficadelph/" target="_blank" rel="noopener"><svg class="i" aria-hidden="true"><use href="#i-brand-instagram"/></svg> Escribinos por Instagram</a>
+          </div>
+          <div class="facts">
+            <div><svg class="i" aria-hidden="true"><use href="#i-clock"/></svg> Lunes a viernes de 9 a 18 h</div>
+            <div><svg class="i" aria-hidden="true"><use href="#i-map-pin"/></svg> Paso del Rey, Moreno</div>
+            <div><svg class="i" aria-hidden="true"><use href="#i-mail"/></svg> clientes@delphgrafica.com.ar</div>
+          </div>
+        </div>
+
+        <form id="form-cotizar" class="card js-only" novalidate>
           <div>
-            <label for="nombre" class="block text-sm font-semibold">Nombre</label>
-            <input id="nombre" name="nombre" type="text" maxlength="60" autocomplete="name" aria-describedby="nombre-error" class="mt-1 block min-h-11 w-full rounded-lg border border-neutral-500 bg-white px-4 py-2 text-base aria-invalid:border-2 aria-invalid:border-ink">
-            <p id="nombre-error" role="alert" class="mt-1 border-l-4 border-ink pl-3 text-sm font-semibold empty:hidden"></p>
+            <label for="nombre">Nombre</label>
+            <input id="nombre" name="nombre" type="text" maxlength="60" autocomplete="name" aria-describedby="nombre-error">
+            <p id="nombre-error" role="alert" class="field-error"></p>
           </div>
 
-          <p class="text-sm text-neutral-700">Completá al menos uno de los dos: email o teléfono.</p>
+          <p class="hint">Completá al menos uno de los dos: email o teléfono.</p>
 
           <div>
-            <label for="email" class="block text-sm font-semibold">Email</label>
-            <input id="email" name="email" type="email" inputmode="email" maxlength="100" autocomplete="email" aria-describedby="email-error contacto-error" class="mt-1 block min-h-11 w-full rounded-lg border border-neutral-500 bg-white px-4 py-2 text-base aria-invalid:border-2 aria-invalid:border-ink">
-            <p id="email-error" role="alert" class="mt-1 border-l-4 border-ink pl-3 text-sm font-semibold empty:hidden"></p>
+            <label for="email">Email</label>
+            <input id="email" name="email" type="email" inputmode="email" maxlength="100" autocomplete="email" aria-describedby="email-error contacto-error">
+            <p id="email-error" role="alert" class="field-error"></p>
           </div>
 
           <div>
-            <label for="telefono" class="block text-sm font-semibold">Teléfono</label>
-            <input id="telefono" name="telefono" type="tel" inputmode="tel" maxlength="30" autocomplete="tel" aria-describedby="telefono-error contacto-error" class="mt-1 block min-h-11 w-full rounded-lg border border-neutral-500 bg-white px-4 py-2 text-base aria-invalid:border-2 aria-invalid:border-ink">
-            <p id="telefono-error" role="alert" class="mt-1 border-l-4 border-ink pl-3 text-sm font-semibold empty:hidden"></p>
-            <p id="contacto-error" role="alert" class="mt-1 border-l-4 border-ink pl-3 text-sm font-semibold empty:hidden"></p>
+            <label for="telefono">Teléfono</label>
+            <input id="telefono" name="telefono" type="tel" inputmode="tel" maxlength="30" autocomplete="tel" aria-describedby="telefono-error contacto-error">
+            <p id="telefono-error" role="alert" class="field-error"></p>
+            <p id="contacto-error" role="alert" class="field-error"></p>
           </div>
 
           <div>
-            <label for="descripcion" class="block text-sm font-semibold">Descripción del proyecto</label>
-            <textarea id="descripcion" name="descripcion" rows="5" maxlength="500" aria-describedby="descripcion-contador descripcion-aviso descripcion-error" class="mt-1 block min-h-11 w-full rounded-lg border border-neutral-500 bg-white px-4 py-2 text-base aria-invalid:border-2 aria-invalid:border-ink"></textarea>
-            <p id="descripcion-contador" class="mt-1 text-right text-sm text-neutral-700">0 / 500</p>
-            <p id="descripcion-aviso" role="status" class="mt-1 text-sm font-semibold empty:hidden"></p>
-            <p id="descripcion-error" role="alert" class="mt-1 border-l-4 border-ink pl-3 text-sm font-semibold empty:hidden"></p>
+            <label for="descripcion">Descripción del proyecto</label>
+            <textarea id="descripcion" name="descripcion" rows="5" maxlength="500" aria-describedby="descripcion-contador descripcion-aviso descripcion-error"></textarea>
+            <p id="descripcion-contador" class="counter">0 / 500</p>
+            <p id="descripcion-aviso" role="status" class="field-error"></p>
+            <p id="descripcion-error" role="alert" class="field-error"></p>
           </div>
 
-          <button id="btn-enviar" type="submit" class="inline-flex min-h-11 items-center justify-center rounded-full bg-accent px-8 py-3 text-base font-bold text-white hover:brightness-90">Enviar por WhatsApp</button>
-          <p id="estado" role="status" class="text-sm empty:hidden"></p>
+          <div class="form-actions">
+            <button id="btn-enviar" type="submit" class="btn btn-cta">Enviar por WhatsApp <svg class="i" aria-hidden="true"><use href="#i-arrow-right"/></svg></button>
+            <button id="btn-adjuntar" type="button" class="btn btn-line" data-abrir-modal>Adjuntar archivo / Arte final</button>
+          </div>
+          <p id="estado" role="status" class="hint field-error" style="border:0;padding:0;font-weight:400"></p>
+          <p class="privacy">Tus datos solo se usan para armar el mensaje de WhatsApp: no se guardan en este sitio.</p>
         </form>
       </div>
     </section>
   </main>
 
-  <footer id="pie"></footer>
+  <footer id="pie" class="foot">
+    <div class="wrap">
+      <div class="foot-grid">
+        <div><a class="logo" href="#inicio" aria-label="Gráfica Delph"><img src="assets/logo-sm.png" alt="Gráfica Delph" width="160" height="215" loading="lazy"></a></div>
+        <div><h2>Horarios</h2><p>Lunes a viernes de 9 a 18 h</p></div>
+        <div><h2>Taller</h2><p>Paso del Rey, Moreno</p><p><a class="mail" href="mailto:clientes@delphgrafica.com.ar">clientes@delphgrafica.com.ar</a></p></div>
+        <div>
+          <h2>Seguinos</h2>
+          <div class="social">
+            <a class="icon-btn" href="https://www.instagram.com/graficadelph/" target="_blank" rel="noopener" aria-label="Instagram"><svg class="i" aria-hidden="true"><use href="#i-brand-instagram"/></svg></a>
+            <a class="icon-btn" href="https://wa.me/5491172394787" target="_blank" rel="noopener" aria-label="WhatsApp"><svg class="i" aria-hidden="true"><use href="#i-brand-whatsapp"/></svg></a>
+            <a class="icon-btn" href="mailto:clientes@delphgrafica.com.ar" aria-label="Email"><svg class="i" aria-hidden="true"><use href="#i-mail"/></svg></a>
+          </div>
+        </div>
+      </div>
+      <p class="copy">© 2026 Gráfica Delph</p>
+    </div>
+  </footer>
+
+  <a id="fab-whatsapp" class="fab" href="https://wa.me/5491172394787?text=Hola!%20Quiero%20hacer%20una%20consulta." target="_blank" rel="noopener" aria-label="Escribinos por WhatsApp"><svg class="i" aria-hidden="true"><use href="#i-brand-whatsapp"/></svg></a>
+
+  <dialog id="modal-arte" aria-labelledby="modal-arte-titulo">
+    <div class="modal-box">
+      <h2 id="modal-arte-titulo">Adjuntar archivo</h2>
+      <p>Próximamente: La carga directa de archivos estará disponible muy pronto. Por el momento, podés enviarnos tus archivos de diseño directamente por WhatsApp.</p>
+      <div class="form-actions">
+        <a id="btn-modal-whatsapp" class="btn btn-cta" href="https://wa.me/5491172394787?text=Hola!%20Quiero%20enviarles%20un%20arte%20final%20para%20cotizar." target="_blank" rel="noopener">Abrir WhatsApp</a>
+        <button type="button" class="btn btn-line" data-cerrar-modal>Cerrar</button>
+      </div>
+    </div>
+  </dialog>
 </body>
 </html>

diff --git a/js/dialog.js b/js/dialog.js
@@ -1,0 +1,22 @@
+// Modal de "Adjuntar archivo": usa el <dialog> nativo, que ya resuelve Esc, el foco atrapado y el fondo
+// inerte. Se agrega el cierre al tocar fuera del cuadro y devolver el foco al botón que lo abrió, porque
+// no todos los navegadores lo hacen solos.
+export function initDialog(dialog = document.querySelector('#modal-arte')) {
+  if (!dialog || typeof dialog.showModal !== 'function') return;
+
+  let opener = null;
+
+  for (const button of document.querySelectorAll('[data-abrir-modal]')) {
+    button.addEventListener('click', () => {
+      opener = button;
+      dialog.showModal();
+    });
+  }
+  for (const closer of dialog.querySelectorAll('[data-cerrar-modal]')) {
+    closer.addEventListener('click', () => dialog.close());
+  }
+  dialog.addEventListener('click', (event) => {
+    if (event.target === dialog) dialog.close();
+  });
+  dialog.addEventListener('close', () => opener?.focus());
+}

diff --git a/js/main.js b/js/main.js
@@ -1,4 +1,11 @@
 // Entrada del sitio: conecta los módulos con el DOM.
+import { initDialog } from './dialog.js';
 import { initForm } from './form.js';
 
 initForm();
+initDialog();
+
+// El ancla nativa hace el desplazamiento; acá solo se mueve el foco a la sección del formulario.
+document.querySelector('#cta-hero')?.addEventListener('click', () => {
+  document.querySelector('#cotizar')?.focus({ preventScroll: true });
+});
